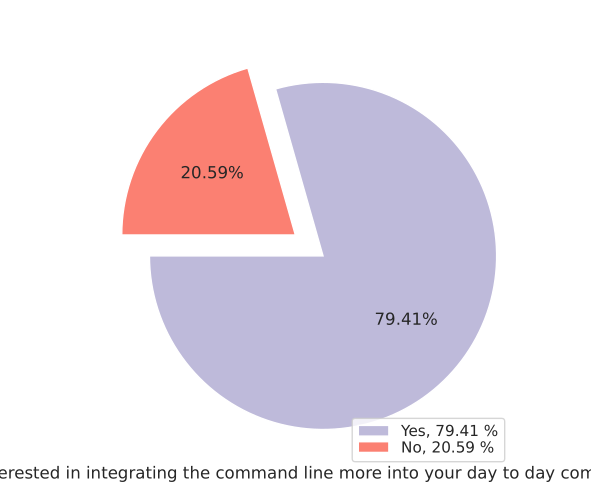
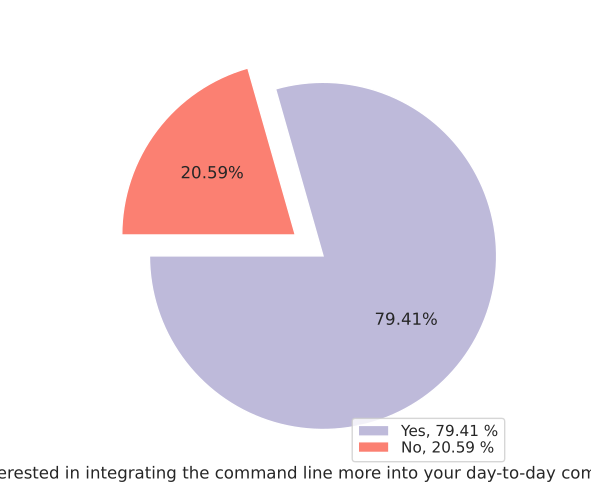
user_study: Proofread

Changed region(s): [[0.0, 0.93, 1.0, 0.96]]

diff --git a/thesis/chapters/user_study/user_study.tex b/thesis/chapters/user_study/user_study.tex
@@ -9,10 +9,10 @@
 \label{chap:userstudy}
 
 In order to test and validate the effectiveness of our solution, a user study
-was conducted. The goal of this user study was two part. Firstly, we were
+was conducted. The goal of this user study was two-part. Firstly, we were
 interested in assessing the usability and response to \textit{CLI-Tutor}.
 Secondly, we wanted to ascertain if interactive learning would be a more
-effective medium to teach command line interaction than the traditional means
+effective medium to teach command line interaction than traditional alternatives
 such as online documentation or books. In this chapter, we will describe our
 user study in detail.
 
@@ -24,21 +24,21 @@ tool made available to us by the University of Zurich.
 
 The focus of the user study was primarily on the comparison between interactive
 learning approaches such as that of \textit{CLI-Tutor} and traditional ones,
-which are mostly reading based. In the modern software development space,
+which are mostly reading-based. In the modern software development space,
 online documentation is the status quo and the medium we choose to compare our
 solution against. As discussed in \autoref{chap:design}, \textit{CLI-Tutor}
 uses \textit{Markdown} to specify lessons. Many static documentation generation
-websites use Markdown files to generate documentation from. This is also true
+websites use Markdown files to generate documentation. This is also true
 for our chosen generator. This enables us to objectively compare the
 interaction medium rather than the lesson content, since the exact same lessons
 can be used in both tools. Furthermore, due to the popularity of
-\textit{MkDocs} it is a very realistic representation of documentation that
+\textit{MkDocs}, it is a very realistic representation of documentation that
 individuals may encounter in the wild.
 
 
 \subsection{Interactive versus Non-interactive}
 
-We designed our user study with the intention to perform an A/B style testing
+We designed our user study intending to perform A/B style testing
 comparing learning mediums. To support this we used the pseudorandom number
 generation feature of \textit{LimeSurvey} to assign our participants to one of
 two groups, interactive and non-interactive.
@@ -46,18 +46,19 @@ two groups, interactive and non-interactive.
 \subsection{Structure}
 
 In this section, we provide a structural overview of our online survey. The
-entire survey is available in \autoref{chap:appendixa}.
+entire survey, complete with possible answers, is available the
+\hyperref[chap:appendixa]{appendix}.
 
 Our online survey was divided into the following steps:
 
 \begin{enumerate}
 
-	\item User Familiarity: In this section, users answered questions relating
+	\item User Familiarity: In this section, participants answered questions relating
 	      to their experience, interest and preferences to provide us with some
 	      insights on each individual participant.
 
 	\item Assignment: All participants where divided into one of two groups,
-	      interactive and non-interactive. The assignment value is unknown to the
+	      interactive or non-interactive. The assignment value is unknown to the
 	      participant at the time of starting the survey. Our survey tool then
 	      conditionally rendered a URL for the participants to follow to the next
 	      section of the survey.
@@ -66,17 +67,17 @@ Our online survey was divided into the following steps:
 	      one of the two groups, they will either be sent to our web application
 	      running \textit{CLI-Tutor} or to our documentation website. If assigned
 	      to the non-interactive group participants were also given the option of
-	      navigating to the  \textit{CLI-only} version of our tool, in case they
+	      navigating to the \textit{CLI-only} version of our tool, in case they
 	      did not have access to a Unix-like terminal (see:
 	      \autoref{fig:cliversion}).
 
 	\item Evaluation: The evaluation stage is where participants were asked a
 	      series of basic questions relating to the lessons they took in the
-	      previous stage. Questions were a mixture of multiple choice and free
+	      previous step. Questions were a mixture of multiple choice and free
 	      text questions. This section was identical for both user groups as the
 	      lessons were also identical.
 
-	\item Feedback: In this section participants were able to provide feedback
+	\item Feedback: In this section, participants were able to provide feedback
 	      regarding their experience. All but one of the questions in this
 	      section were identical for both user groups. The non-interactive group
 	      were asked one additional question regarding interactive learning:
@@ -86,9 +87,9 @@ Our online survey was divided into the following steps:
 	\item Feedback Opposite (optional): This section was optional and included
 	      only one quick feedback question. At the end of the survey,
 	      participants were then given a chance to try out the opposite tool to
-	      which they were assigned for the bulk of the user study. No evaluation
-	      or tutorial was mandated here and participants were given one free text
-	      response to report on their feelings using the alternative tool.
+          which they were assigned for the  user study. No evaluation or
+          tutorial was mandated here and participants were given one free text
+          field to report on their feelings using the alternative tool.
 \end{enumerate}
 
 
@@ -100,7 +101,7 @@ the survey, where we asked experience, familiarity and more general questions.
 In total, 34 participants took part in our user study. 19 of whom were assigned
 to the interactive group and 15 to the non-interactive group. Recruitment was
 primarily done through University channels though some participants were also
-sourced through work email and word of mouth. While not limited to individuals
+sourced through work emails and word of mouth. While not limited to individuals
 in software related fields, over 60\% (see: \autoref{fig:uniexp}) of the
 participants were from technical backgrounds or currently computer science
 students.
@@ -108,7 +109,7 @@ students.
 \subsection{Technical Experience}
 
 Given the goals of \textit{CLI-Tutor}, It comes as no surprise that most of the
-individuals who participated in our user study were of not very highly
+individuals who participated in our user study were not very highly
 experienced, though there were two outliers with over twenty years of
 programming experience. Most of the participants were far less experienced with
 a median experience of 3 years (see: \autoref{fig:programmingexp}). While not
@@ -139,7 +140,6 @@ distributed in the University of Zurich.
 	\label{fig:uniexp}
 \end{figure}
 
-%TODO: SEE IF FOLLOWING PAGE THING HOLDS
 Participants were also asked about whether they had any University experience
 in Computer Science or related fields. Most participants had some degree of
 experience at the Bachelor's and Master's level but despite this 29.32\%
@@ -153,8 +153,8 @@ distribution across all levels of university experience can be found on the foll
 \subsection{Feelings about the CLIs}
 
 To gauge interest and feelings, questions regarding interest and comfort level
-with CLIs were also asked. In general the interest in integrating the command
-line more into day to day computer use was high. With 79.41\% (see:
+with CLIs were also asked. In general, the interest in integrating the command
+line more into day-to-day computer use was high. With 79.41\% (see:
 \autoref{fig:daytoday}) of respondents reporting that they were interested in
 doing so. Participants were also asked to explain their motivations.
 Motivations were varied, but there were some commonalities in the motivations
@@ -194,7 +194,7 @@ environment as a productivity booster or as an important skill.
 
 \begin{figure}[htbp]
 	\scalebox{0.65}{\input{plots/interest/plot.pgf}}
-	\caption{Chart depicting interest in integrating CLIs more into day to day computer use.}
+	\caption{Chart depicting interest in integrating CLIs more into day-to-day computer use.}
 	\label{fig:daytoday}
 \end{figure}
 
@@ -212,7 +212,7 @@ Likert-style fashion with answers ranging from "Extremely Uncomfortable" to
 More than half of the participants responded that they were extremely or at
 least uncomfortable with using the command line. The percentage of individuals
 who identified as at least comfortable was 23.53\%. This large amount of
-discomfort aligns with the higher amount of low experience participants.
+discomfort aligns with the higher amount of low-experience participants.
 Another potential contributing factor is the fact that most people were
 university students who generally have only ever worked with GUIs in their
 personal computer usage.
@@ -221,33 +221,33 @@ personal computer usage.
 
 \subsection{CLI Usage}
 
-Beyond comfort and interest, the amount existing experience specifically with
+Beyond comfort and interest, the amount of existing experience specifically with
 command line interfaces is another interesting factor. Participants were
 questioned about their existing usage of command line interfaces. These
-questions were presented in a multiple choice and single answer form. Two
+questions were presented in a multiple choice and single-answer form. Two
 questions were asked of the participants, and they were intentionally divided
-in order to highlight the differences between general experience  (see:
+in order to highlight the differences between general usage  (see:
 \autoref{fig:often}) and individuals who also use CLIs in their personal time
 (see: \autoref{fig:often2}). Furthermore, this intentional division was
 intended to balance the fact that a lot of individuals participating in the
 user study were computer science students and might have had some experience
-that did not reflect their personal affinity towards CLIs.
+that does not reflect their personal affinity towards CLIs.
 
 The usage of command line interfaces amongst our participant groups with higher
 than anticipated. Over half of respondents stated they use command line
 applications or tools at least once a month, with 35.29\% stating that they
 almost use them every day. This finding, strongly highlights the continuing
 relevance of command line interfaces, especially in the software development
-space. Fascinatingly, when asked about usage of command line applications or
-tools in day to day personal computing the statistics are almost mirrored
-between the previous question. With almost 38.24\% stating that they never use
+space. Fascinatingly, when asked about the usage of command line applications or
+tools in day-to-day personal computing the statistics are almost mirrored
+between the previous question. Almost 38.24\% stated that they never use
 command line applications for personal tasks. This indicates that CLIs are
-perceived and used mostly as work related tools and their qualities in
-personal computing are not highlighted. This point could be related to the fact
-that since CLIs are no longer the default paradigm of interaction with the
-computer they are only presented to individuals in environments where they are
-considered the De Facto \textit{tool  for the job}, such as with
-\textit{git}\cite{hultstrand2015git}.
+perceived and used mostly as work-related tools and their qualities in
+personal computing are not considered or are not accessible. This point could
+be related to the fact that since CLIs are no longer the default paradigm of
+interaction with the computer, and they are usually presented to individuals in
+environments where the tool is considered the De Facto \textit{tool  for the job},
+such as with \textit{git}\cite{hultstrand2015git}.
 
 \begin{figure}[htbp]
 	\centering
@@ -268,7 +268,7 @@ considered the De Facto \textit{tool  for the job}, such as with
 
 \subsection{Learning Preferences}
 
-The preferences regarding learning mediums is another important factor relevant
+The preferences regarding learning mediums are another important factor relevant
 to this study. As also mentioned in our research questions (see:
 \autoref{subsec:rqs}), analysing the effectiveness of interactive learning
 tools is part of the goals of this work.
@@ -280,7 +280,7 @@ learning was at least partially interactive, with most indicating that their
 preferred method was video tutorials. This is most likely due to the vast
 amount of video content, especially technical content, available on the web.
 This large proportion of individuals preferring video and interactive tutorials
-is a good indicator for the potential utility of interactive learning tools
+is a good indicator of the potential utility of interactive learning tools
 such as \textit{CLI-Tutor}. 26.37\% of participants stated their preferred
 method of learning was via books or online documentation.
 

diff --git a/thesis/plots/interest/plot.py b/thesis/plots/interest/plot.py
@@ -13,7 +13,7 @@ fig.set_size_inches(5.90666, 5)
 sns.set(style="ticks")
 
 plt.xlabel(
-    "Are you interested in integrating the command line more into your day to day computer use?"
+    "Are you interested in integrating the command line more into your day-to-day computer use?"
 )
 
 total = 34.0
